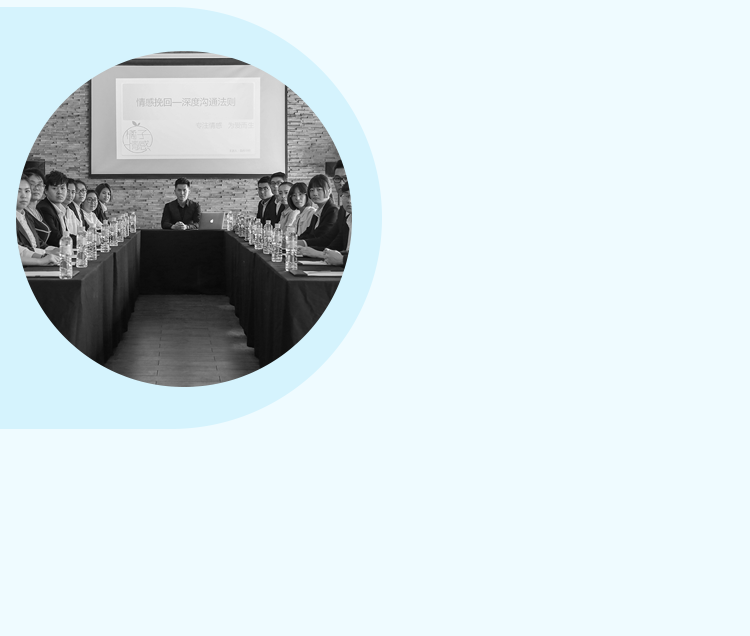
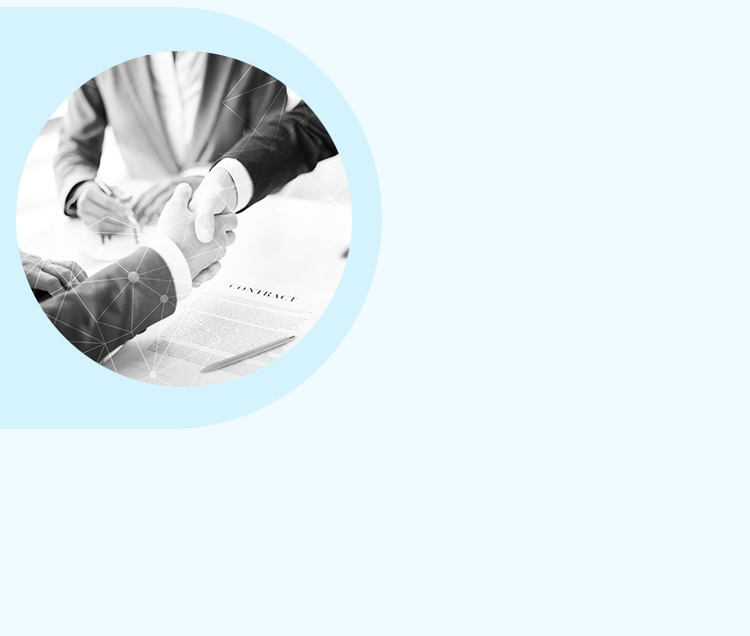
更新关于我们页面图片，结构和样式;

Changed region(s): [[0.0, 0.0597, 0.4907, 0.6274]]

diff --git a/views/about.html b/views/about.html
@@ -29,7 +29,7 @@
               业水平。被众多主流媒争相报道。
             </p>
           </div>
-          <img src="images/about/module02-left-pic01.png" alt="">
+          <img class="hidden" src="images/about/module02-left-pic01.png" alt="">
         </div>
         <div class="item">
           <div class="txt-group">
@@ -39,7 +39,7 @@
               职业，为行业输送了大量人才，并且在开设分公司，填补市场需求。
             </p>
           </div>
-          <img src="images/about/module02-left-pic02.png" alt="">
+          <img class="hidden" src="images/about/module02-left-pic02.png" alt="">
         </div>
         <div class="item">
           <div class="txt-group">
@@ -49,7 +49,7 @@
               向，客户好评率高达98.5%，引领着整个行业的发展方向。
             </p>
           </div>
-          <img src="images/about/module02-left-pic03.png" alt="">
+          <img class="hidden" src="images/about/module02-left-pic03.png" alt="">
         </div>
       </div>
       <div class="mid bg"></div>
@@ -62,7 +62,7 @@
               将行业推至更高的高度。深化社会使命感，收到各界认可。
             </p>
           </div>
-          <img src="images/about/module02-right-pic01.png" alt="">
+          <img class="hidden" src="images/about/module02-right-pic01.png" alt="">
         </div>
         <div class="item">
           <div class="txt-group">
@@ -72,7 +72,7 @@
               子情感不断不遗余力，实现自己的社会价值。
             </p>
           </div>
-          <img src="images/about/module02-right-pic02.png" alt="">
+          <img class="hidden" src="images/about/module02-right-pic02.png" alt="">
         </div>
         <div class="item">
           <div class="txt-group">
@@ -82,7 +82,7 @@
               名用户，重获幸福。并且受中美澳联合国际医学研究院邀请，开设《幸福讲座》。
             </p>
           </div>
-          <img src="images/about/module02-right-pic03.png" alt="">
+          <img class="hidden" src="images/about/module02-right-pic03.png" alt="">
         </div>
       </div>
     </div>
@@ -99,7 +99,7 @@
 <!-- Start module 03 area: 橘子环境  -->
 
 <!-- Start module 04 area: 橘子动态  -->
-<div class="module module-04">
+<div class="module module-04 hidden">
   <div class="swiper-container">
       <div class="swiper-wrapper">
           <div class="swiper-slide">
@@ -124,7 +124,7 @@
 <!-- Start module 04 area: 橘子动态  -->
 
 <!-- Start module 05 area: 荣获杰出诚信企业称号  -->
-<div class="module-05">
+<div class="module-05 hidden">
   <div class="main">
     <div class="top">
       <div class="item-group">

diff --git a/css/about.css b/css/about.css
@@ -59,7 +59,8 @@ p {
 .module-02 .main .content .mid.bg {
   padding-top: .1rem;
   width: .38rem;
-  height: 16.76rem;
+  /* height: 16.76rem; */
+  height: 10rem;
   background: url("../images/about/module02-icon03.png") no-repeat center center;
   background-size: cover;
 }
@@ -79,13 +80,13 @@ p {
   right: -.05rem;
 }
   .module-02 .main .content .left .item:first-child {
-    top: .9rem;
+    top: .75rem;
   }
   .module-02 .main .content .left .item:nth-child(2) {
-    top: .5rem;
+    top: 0rem;
   }
   .module-02 .main .content .left .item:last-child {
-    top: .15rem;
+    top: -.5rem;
   }
 .module-02 .main .content .right .item {
   left: -.4rem;
@@ -94,10 +95,10 @@ p {
     top: -.15rem;
   }
   .module-02 .main .content .right .item:nth-child(2) {
-    bottom: .7rem;
+    bottom: .5rem;
   }
   .module-02 .main .content .right .item:last-child {
-    bottom: 1.26rem;
+    bottom: .8rem;
   }
 
 .module-02 .main .content .left .item .txt-group,
